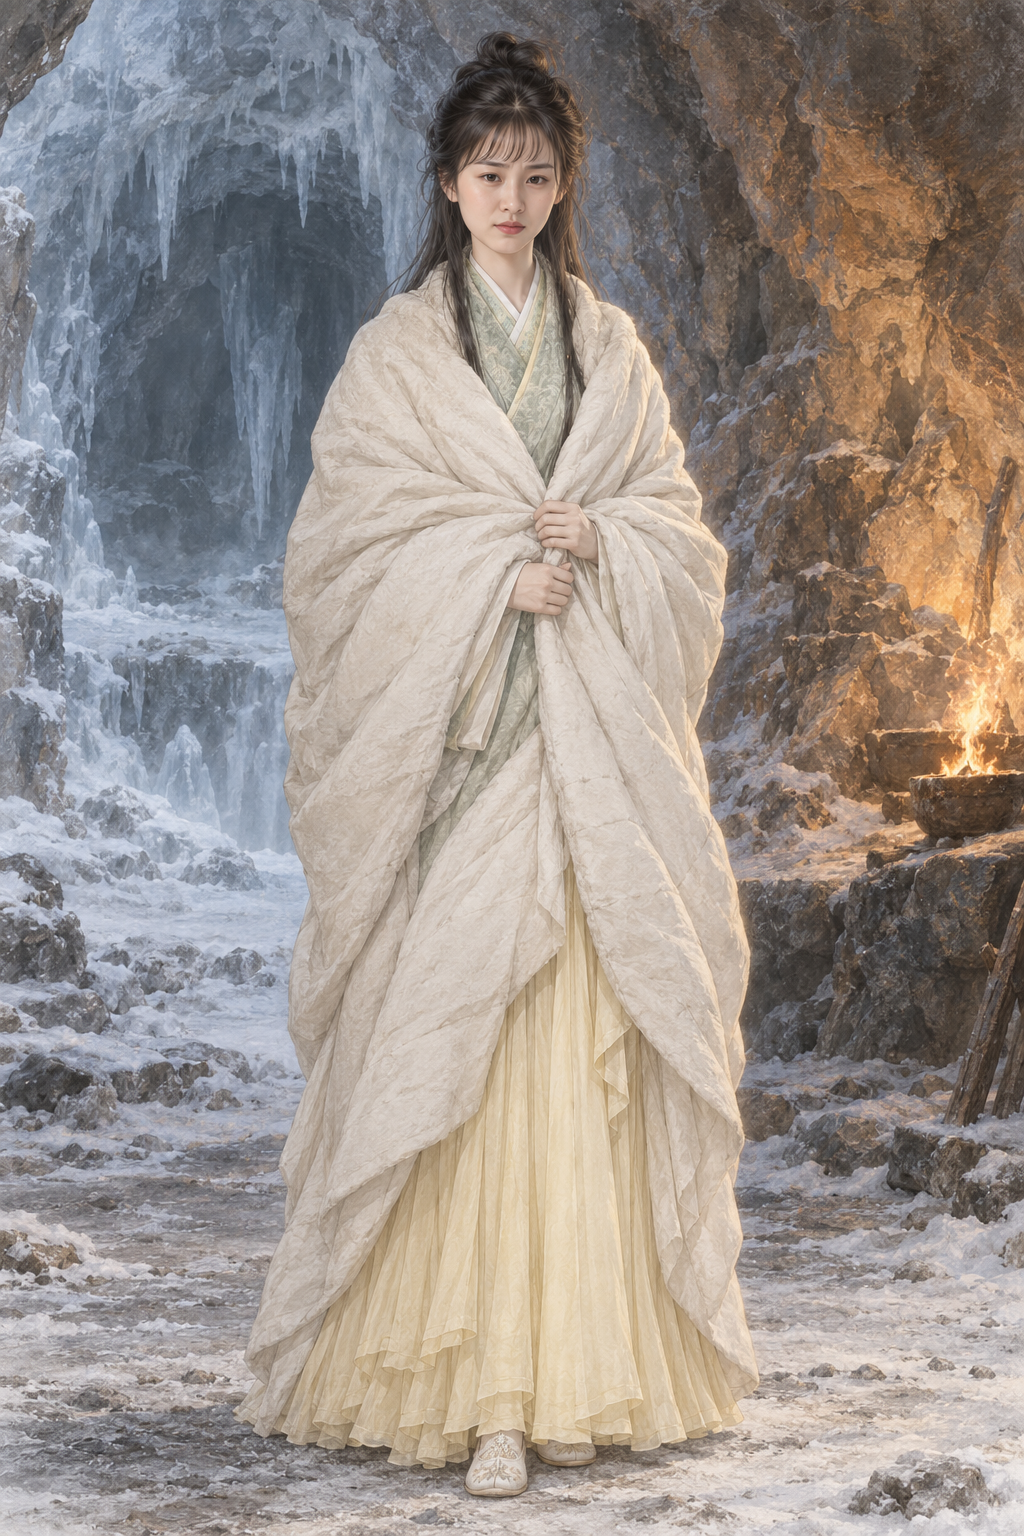
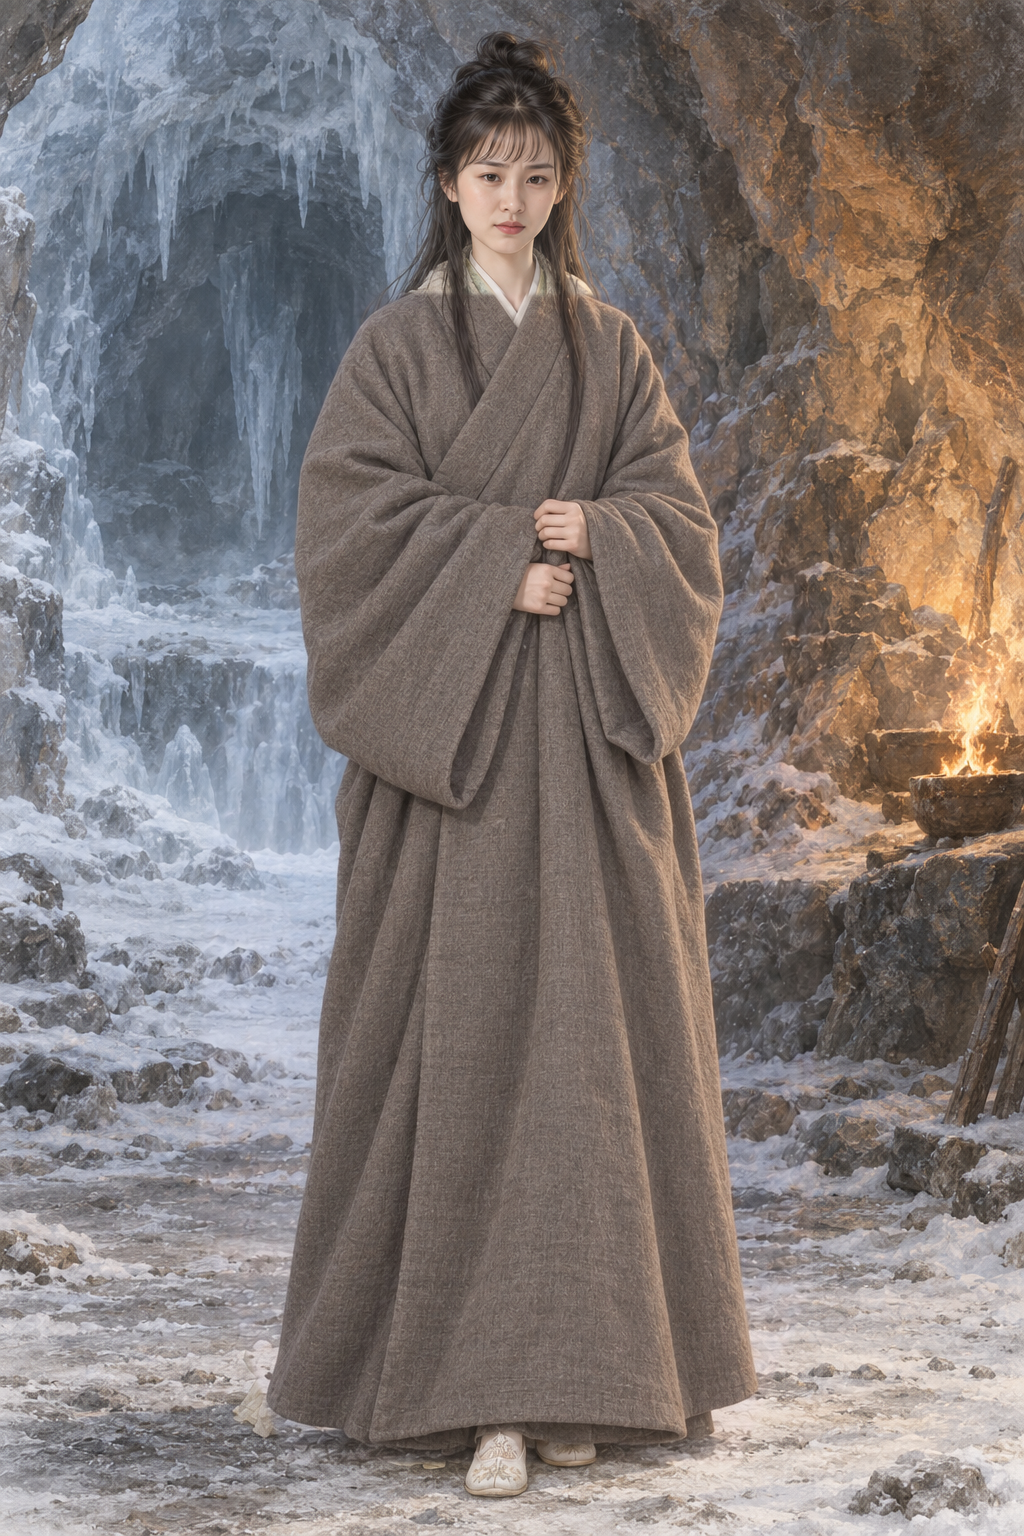
assets: AR-82 原著核对返修 苗若兰、苗若兰
修正原著明确的服饰、器物或剧情状态；编辑范围外像素保持，保留既定面容；同步原著摘句及当前返修要求。

Executed-By: Codex gpt-6.1-sol（AR-82）

diff --git a/assets/default/prompts/characters/ch14-xueshan/npc_miaoruolan__scene_cave_plea_mercy.md b/assets/default/prompts/characters/ch14-xueshan/npc_miaoruolan__scene_cave_plea_mercy.md
@@ -51,3 +51,15 @@ size: 1024x1536
 
 - 参考分工见实际提示词；配色、姿势、取景及成年化均为（原创扩展）。
 - 本轮结果已逐图目检并入库为 candidate；实际作业与参考哈希见 manifest。
+
+
+## 原著依据
+
+- AR-82 返修依据：《雪山飞狐》第九章：“除去苗若兰的外裳，尚留下贴身小衣”；第十章：“早已除下自己长袍，披在苗若兰身上”。；来源：https://github.com/OliverCWY/JY/blob/master/Markdown/%E4%B8%89%E8%81%94%E7%89%88/%E9%9B%AA%E5%B1%B1%E9%A3%9E%E7%8B%90/%E7%AC%AC09%E7%AB%A0.md；https://github.com/OliverCWY/JY/blob/master/Markdown/%E4%B8%89%E8%81%94%E7%89%88/%E9%9B%AA%E5%B1%B1%E9%A3%9E%E7%8B%90/%E7%AC%AC10%E7%AB%A0.md；执行：藏宝洞劝饶宝树阶段改为披胡斐的宽大长袍，袍内素色贴身衣，用袍或厚被完全包覆保暖；不保留被夺的绿皮袄、鹅黄外裙，不需裸露。火堆可以保留。
+
+
+## AR-82 当前返修约束
+
+苗若兰藏宝洞劝饶宝树阶段已被夺外裳，胡斐给她披上自己的宽大男式长袍。将现在米白披被及下面可见的淡绿绣边外袄、鹅黄外裙整体换为宽大灰褐男式长袍，从肩颈到脚踝完全裹住保暖，领内仅露一点素色贴身小衣。两手拢紧宽袍，手姿不变，衣服完全不透明且充分覆盖，不需裸露。绝不可保留绿皮袄和鹅黄百褶外裙。保留火堆、洞壁、鞋、人物位置、原面容和关切表情。
+
+以本节及原著依据为当前要求，历史提示词与本节冲突时按本节执行；保留作者选定脸、原画质感与对应剧情阶段。

diff --git a/assets/default/prompts/characters/ch14-xueshan/npc_miaoruolan__scene_manor_stop_fight.md b/assets/default/prompts/characters/ch14-xueshan/npc_miaoruolan__scene_manor_stop_fight.md
@@ -51,3 +51,15 @@ size: 1024x1536
 
 - 参考分工见实际提示词；配色、姿势、取景及成年化均为（原创扩展）。
 - 本轮结果已逐图目检并入库为 candidate；实际作业与参考哈希见 manifest。
+
+
+## 原著依据
+
+- AR-82 返修依据：《雪山飞狐》第三章（本书数字章，无回目标题）：“别打架！别打架！”；“只见一个黄衣少女笑吟吟的站在门口”。；来源：https://github.com/OliverCWY/JY/blob/master/Markdown/%E4%B8%89%E8%81%94%E7%89%88/%E9%9B%AA%E5%B1%B1%E9%A3%9E%E7%8B%90/%E7%AC%AC03%E7%AB%A0.md；执行：将山庄止争的主体上衣改为黄色，仍站门口柔声止争；淡绿皮袄与鹅黄百褶裙留给换衣后讲述、辨伪阶段。不要把两段服装混成同一时刻。
+
+
+## AR-82 当前返修约束
+
+苗若兰本图是首次站门口笑吟吟柔声止争的时刻：只将主体上衣和左右袖的淡绿长皮袄改为黄色衣装，颜色明确柔和鹅黄色，原白色毛缘、裙子、头饰、发式、手势和面容不变。上衣胸前、背侧、两袖所有原淡绿面料均变黄色，不再混用随后讲述故事换上的淡绿皮袄。
+
+以本节及原著依据为当前要求，历史提示词与本节冲突时按本节执行；保留作者选定脸、原画质感与对应剧情阶段。
